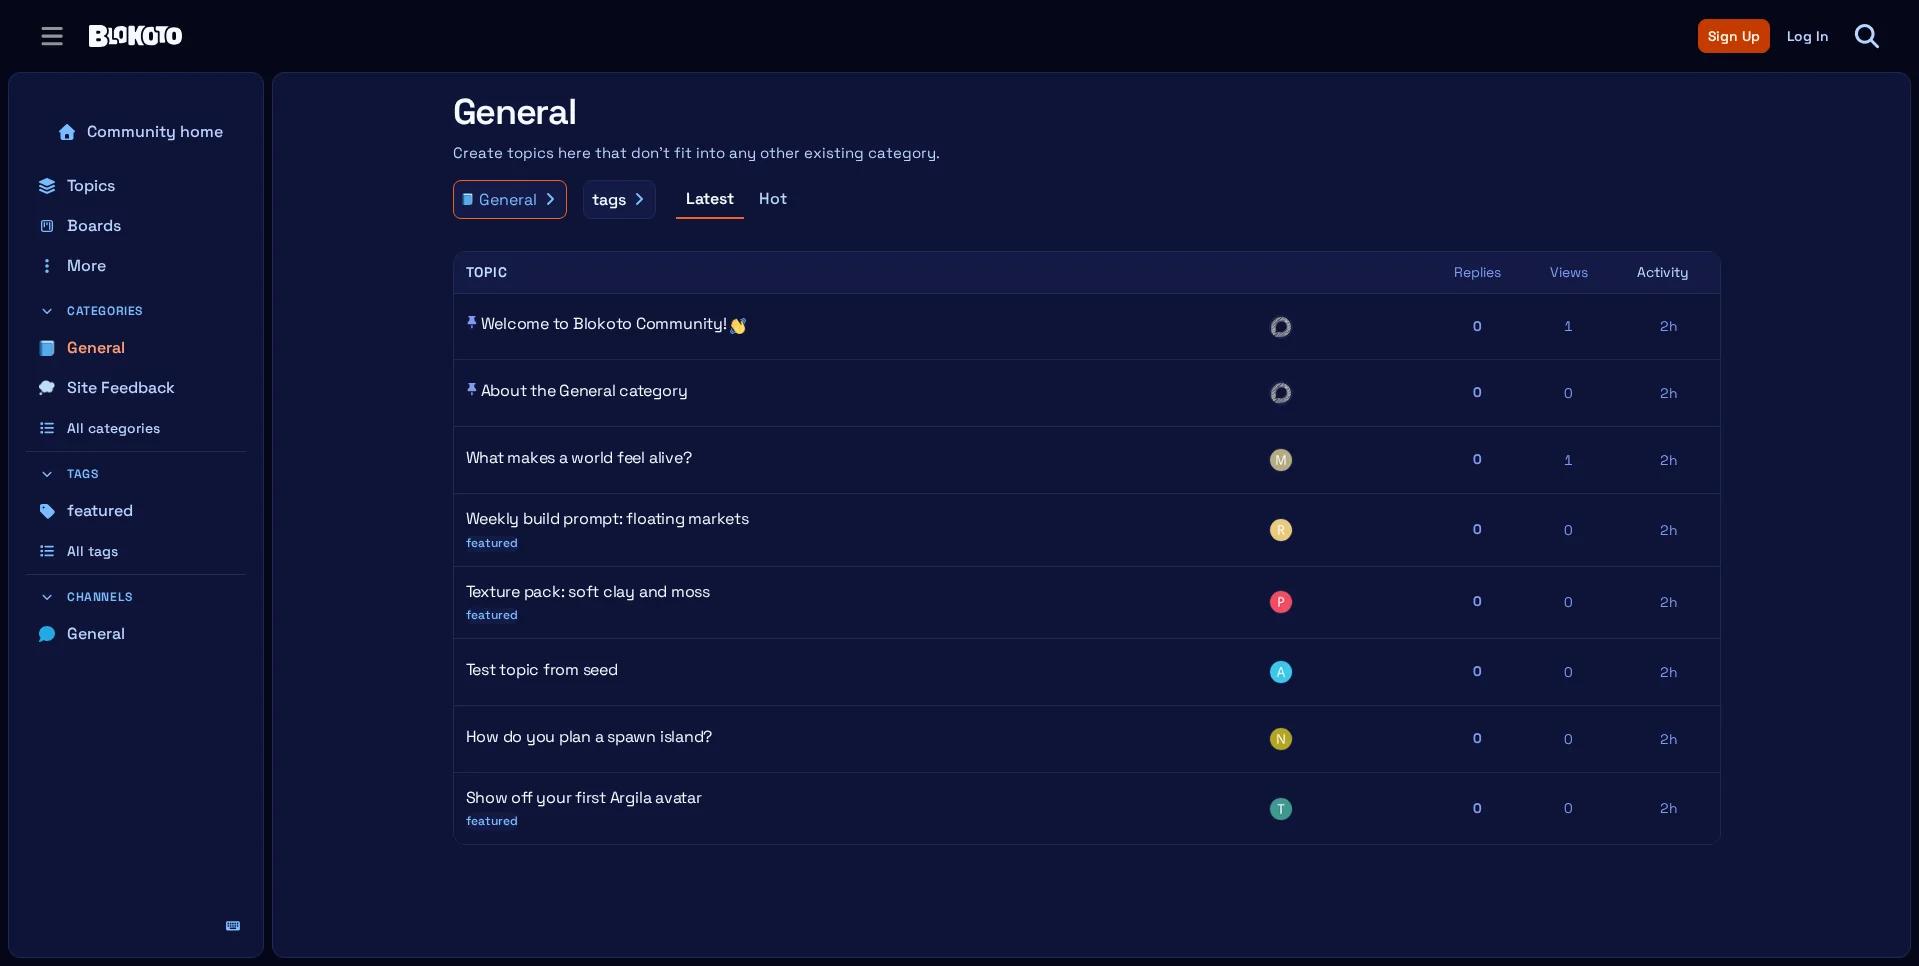
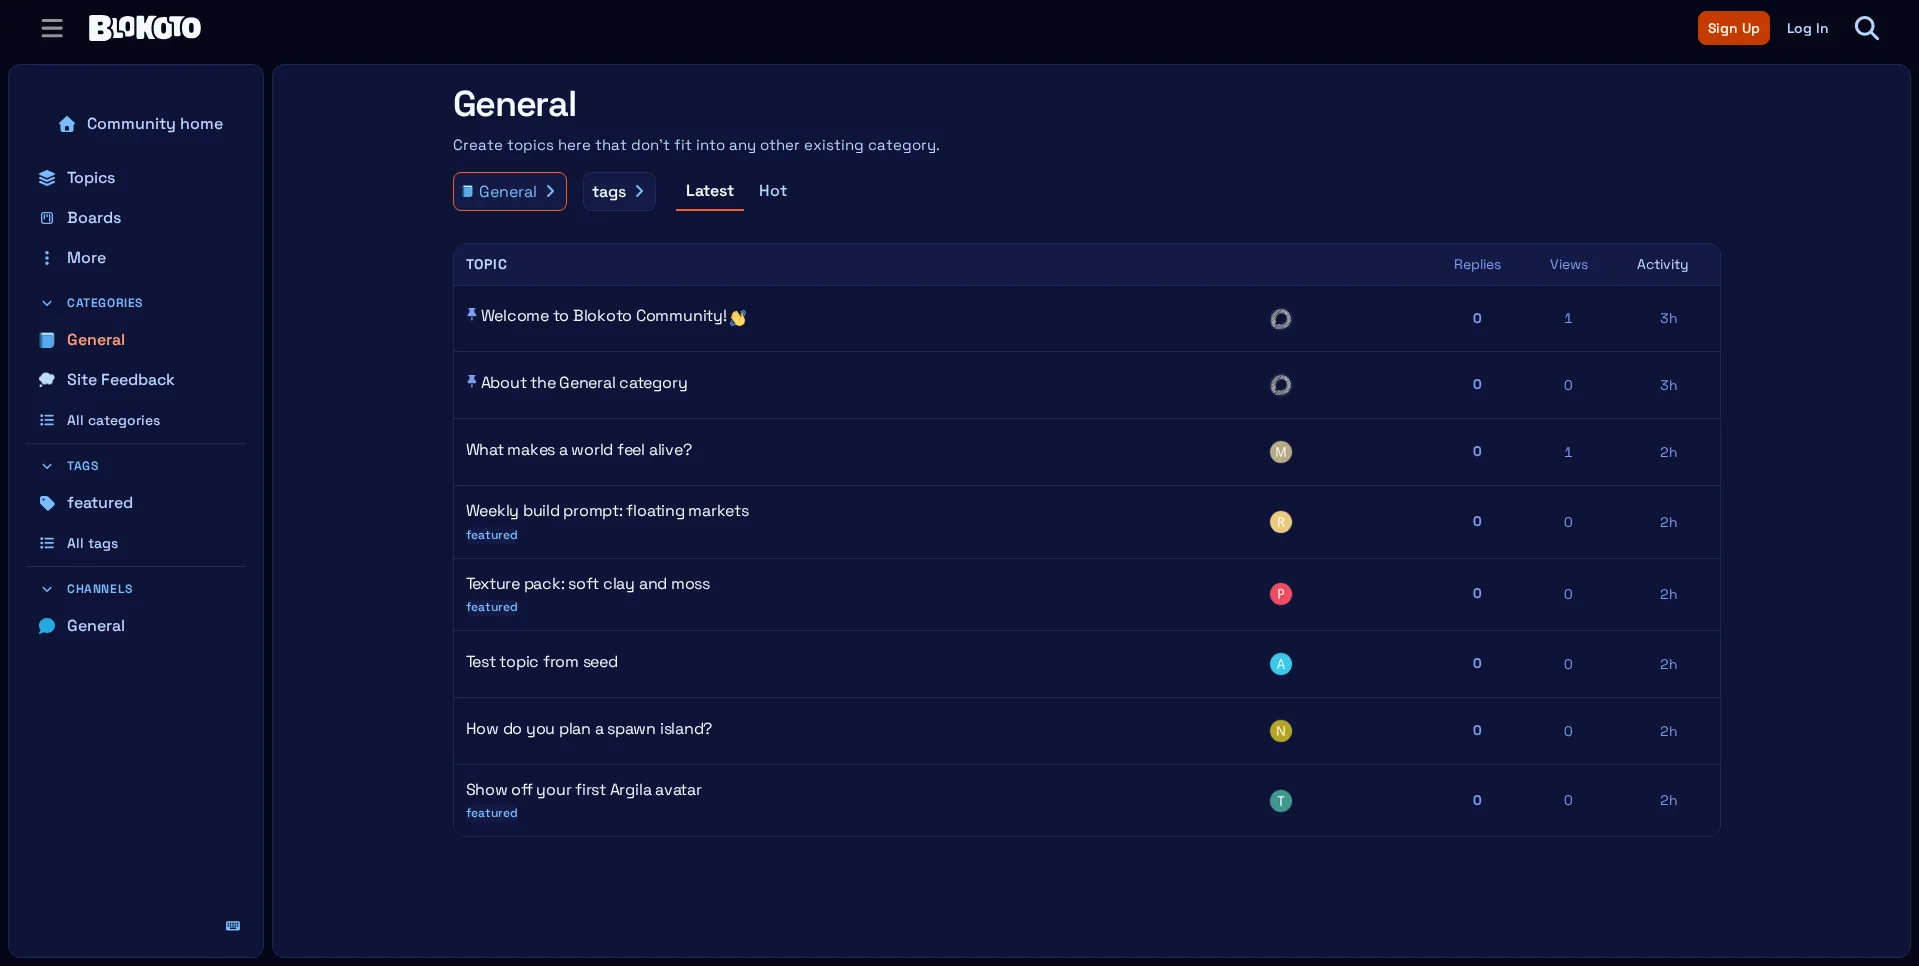
Match the Frontend navbar height

diff --git a/stylesheets/app/header.scss b/stylesheets/app/header.scss
@@ -3,7 +3,7 @@
   z-index: 1000;
   box-sizing: border-box;
   height: var(--t-Blokoto-header-height);
-  padding: var(--space-2) var(--space-2) 0;
+  padding: 0 var(--space-2);
   background: transparent;
   border: 0;
 }
@@ -11,7 +11,7 @@
 .d-header {
   box-sizing: border-box;
   width: 100%;
-  height: 3.5rem;
+  height: 100%;
   padding-inline: var(--space-3);
   background: transparent;
   border: 0;
@@ -33,8 +33,8 @@ body.has-sidebar-page .d-header .wrap.wrap {
 
 .d-header .title a {
   display: block;
-  width: 9rem;
-  height: 2.5rem;
+  width: 11rem;
+  height: 3rem;
   overflow: hidden;
   background-color: var(--t-Blokoto-color-text);
   mask: url($blokoto-logo-white) no-repeat left center / contain;
@@ -96,22 +96,21 @@ body.has-sidebar-page .d-header .wrap.wrap {
 
 @include viewport.until(md) {
   :root {
-    --t-Blokoto-header-height: 3.75rem;
+    --t-Blokoto-header-height: 3.5rem;
   }
 
   .d-header-wrap {
-    height: var(--t-Blokoto-header-height);
-    padding: var(--space-2) var(--space-2) 0;
+    height: 3.5rem;
+    padding: 0 var(--space-2);
   }
 
-  .d-header {
-    height: 3.25rem;
+  body .d-header {
+    height: 3.5rem;
     padding-inline: var(--space-2);
-    border-radius: 0.75rem;
   }
 
   .d-header .title a {
-    width: 7.5rem;
-    height: 2.1rem;
+    width: 8rem;
+    height: 2.5rem;
   }
 }

diff --git a/stylesheets/brand/colors.scss b/stylesheets/brand/colors.scss
@@ -13,7 +13,7 @@
   --t-Blokoto-color-button-hover: #a93200;
   --t-Blokoto-color-on-button: #fff8f3;
   --t-Blokoto-color-grid: light-dark(#7d9bf1, #73eff7);
-  --t-Blokoto-header-height: 4rem;
+  --t-Blokoto-header-height: 3.5rem;
   --t-Blokoto-content-width: 80rem;
   --t-Blokoto-radius: 0.75rem;
   --t-Blokoto-radius-small: 0.5rem;

diff --git a/README.md b/README.md
@@ -27,8 +27,8 @@ purpose: get people into current discussions.
   island and the sidebar are independent scroll containers; the page chrome stays
   put.
 - **Transparent, borderless navbar.** The header is navigation only: no fill, no
-  border, no card. It stays above the scrollable main island, so it never sits over
-  moving content with a see-through background.
+  border, no card, and **56px tall** to match the Frontend's `h-14` navbar. It
+  stays above the scrollable main island.
 - **Content before chrome.** No gradients, nested cards, icon/heading/text tiles,
   or decorative stat blocks. Hierarchy comes from type, spacing, and one rule
   between sections.
@@ -83,6 +83,8 @@ homepage. The rest of the sidebar is Discourse's normal navigation.
 - The main island is `overflow-y: auto`; the homepage uses the same rule on
   `.blokoto-home`. The sidebar scrolls independently.
 - The header is `position: relative` with a transparent background and no border.
+- `--t-Blokoto-header-height` is `3.5rem` (56px) on desktop and mobile, matching
+  the Frontend navbar; the 8px gap below it is separate.
 - The homepage uses a single full-width surface; its intro is a two-column
   editorial split at desktop (copy left, actions right) and a single column on
   mobile.
